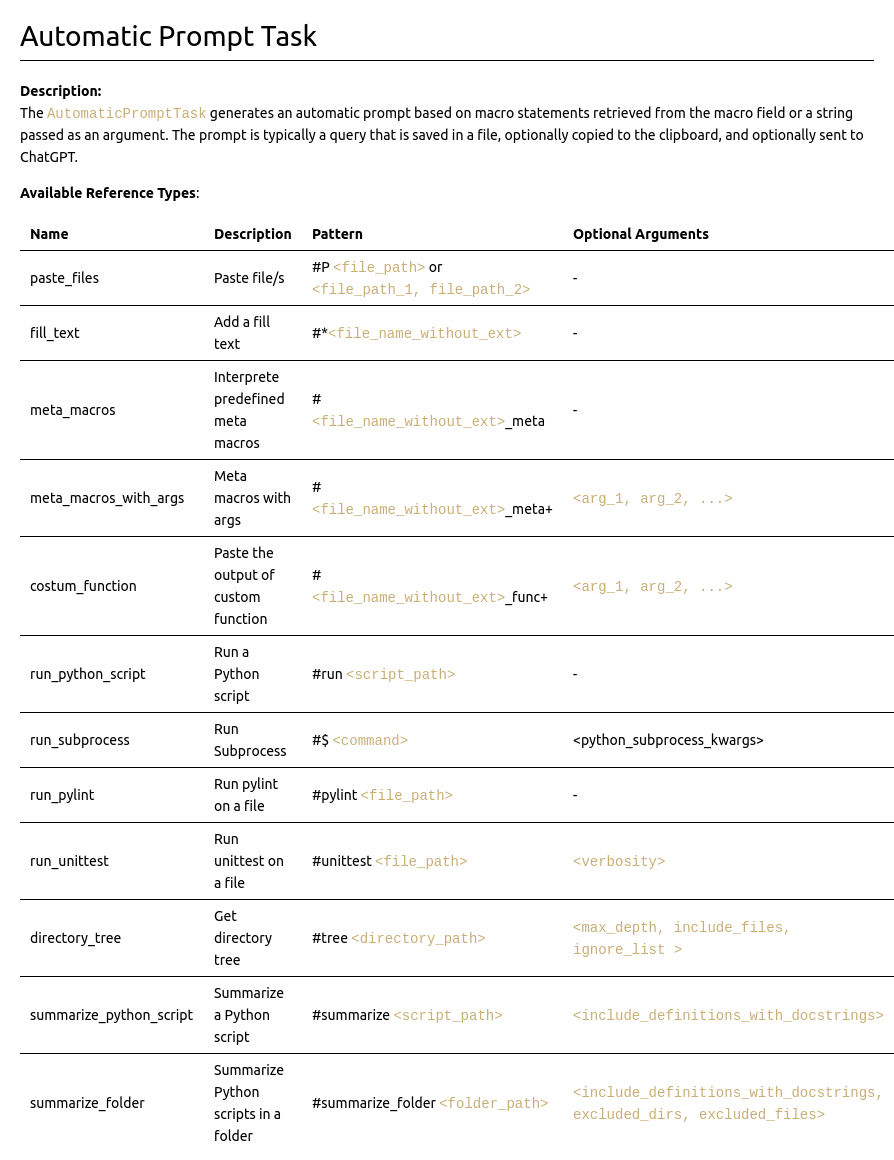
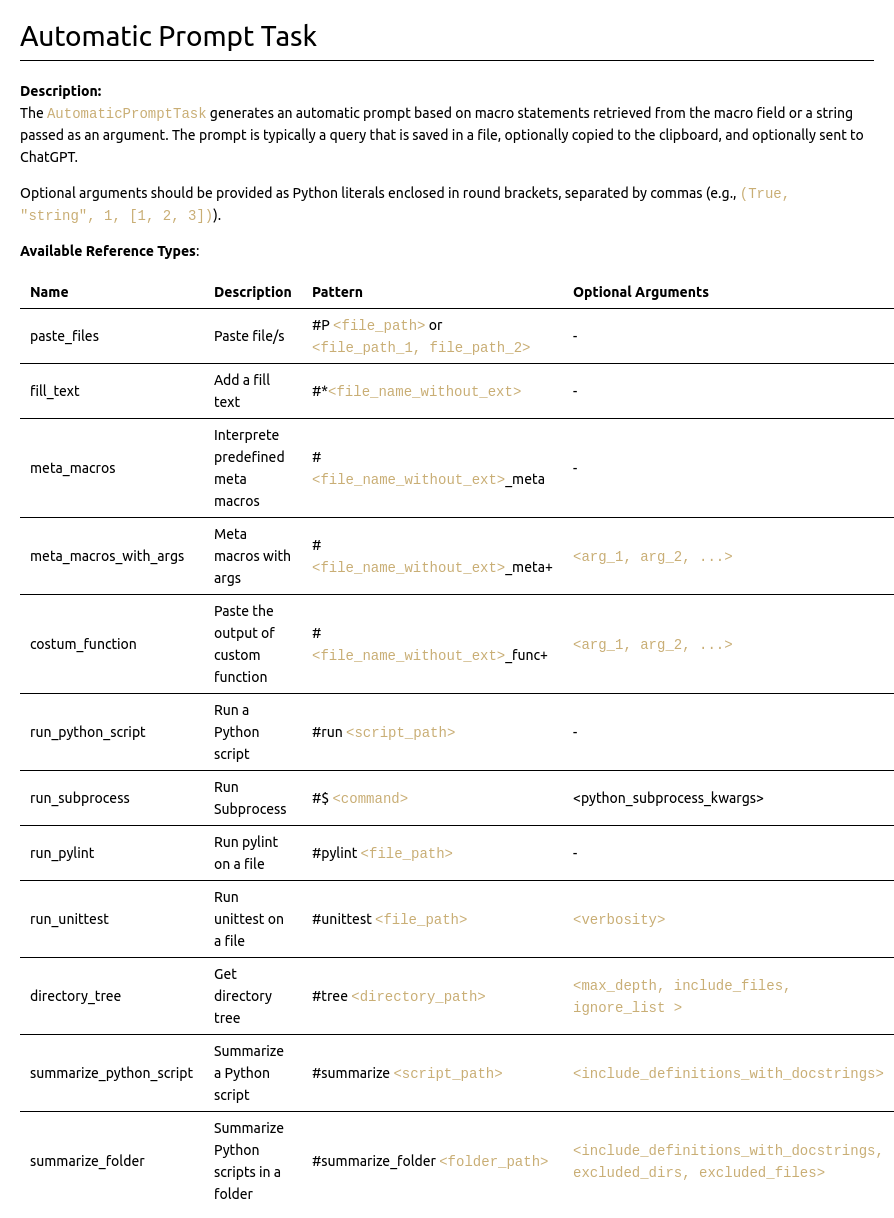
Add description for using optional arguments in docs

diff --git a/tasks/management/support_files/CHEATSHEET.md b/tasks/management/support_files/CHEATSHEET.md
@@ -51,7 +51,9 @@ python path/to/format_python_task.py <root_directory> [<macro_file_path> | --hel
 ### 2. Automatic Prompt Task
 
 **Description:**            
-The `AutomaticPromptTask` generates an automatic prompt based on macro statements retrieved from the macro field or a string passed as an argument. The prompt is typically a query that is saved in a file, optionally copied to the clipboard, and optionally sent to ChatGPT.
+The `AutomaticPromptTask` is designed to generate automatic prompts based on macro statements retrieved from the macro field or a string passed as an argument. These prompts are typically queries that can be saved to a file, optionally copied to the clipboard, or sent to ChatGPT for further processing. 
+
+Optional arguments should be provided as Python literals enclosed in round brackets, separated by commas (e.g., `(True, "string", 1, [1, 2, 3])`). If no arguments are specified, default values will be used.
 
 **Available Reference Types**:
 | Name                    | Description                           | Pattern                                          | Optional Arguments                   |

diff --git a/README.md b/README.md
@@ -113,6 +113,8 @@ python path/to/format_python_task.py <root_directory> [<macro_file_path> | --hel
 **Description:**            
 The `AutomaticPromptTask` generates an automatic prompt based on macro statements retrieved from the macro field or a string passed as an argument. The prompt is typically a query that is saved in a file, optionally copied to the clipboard, and optionally sent to ChatGPT.
 
+Optional arguments should be provided as Python literals enclosed in round brackets, separated by commas (e.g., `(True, "string", 1, [1, 2, 3])`).
+
 **Available Reference Types**:
 | Name                    | Description                           | Pattern                                          | Optional Arguments                   |
 |-------------------------|---------------------------------------|--------------------------------------------------|--------------------------------------|
